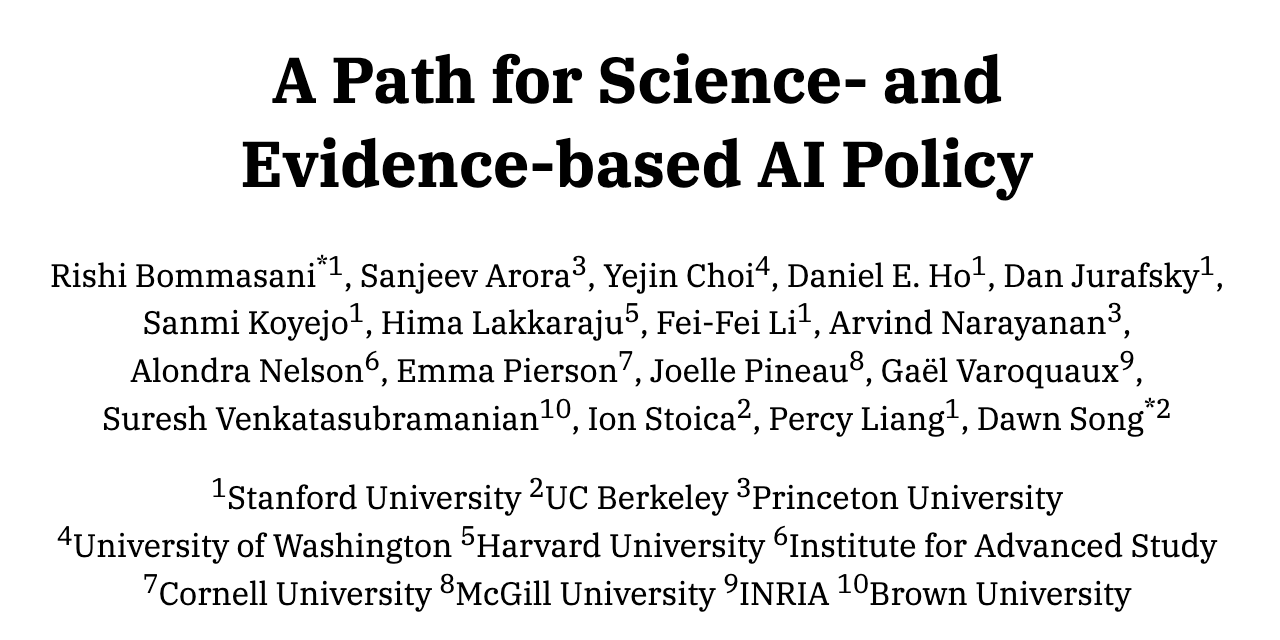
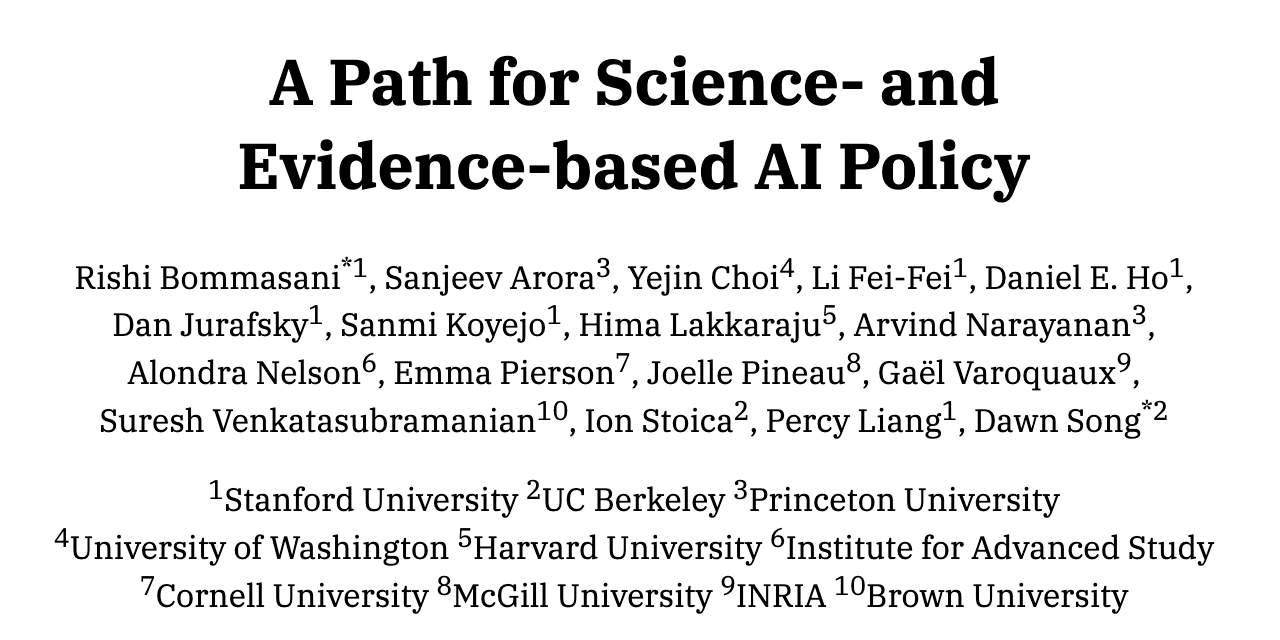
update

diff --git a/index.html b/index.html
@@ -60,9 +60,9 @@
                 <p>
                     Rishi&nbsp;Bommasani<sup>*1</sup>, Sanjeev&nbsp;Arora<sup>3</sup>,
                     Yejin&nbsp;Choi<sup>4</sup>,
+                    Li&nbsp;Fei&#8209;Fei<sup>1</sup>,
                     Daniel&nbsp;E.&nbsp;Ho<sup>1</sup>, Dan&nbsp;Jurafsky<sup>1</sup>, Sanmi&nbsp;Koyejo<sup>1</sup>,
                     Hima&nbsp;Lakkaraju<sup>5</sup>,
-                    Fei&#8209;Fei&nbsp;Li<sup>1</sup>,
                     Arvind&nbsp;Narayanan<sup>3</sup>,
                     Alondra&nbsp;Nelson<sup>6</sup>,
                     Emma&nbsp;Pierson<sup>7</sup>, Joelle&nbsp;Pineau<sup>8</sup>, Gaël&nbsp;Varoquaux<sup>9</sup>,
